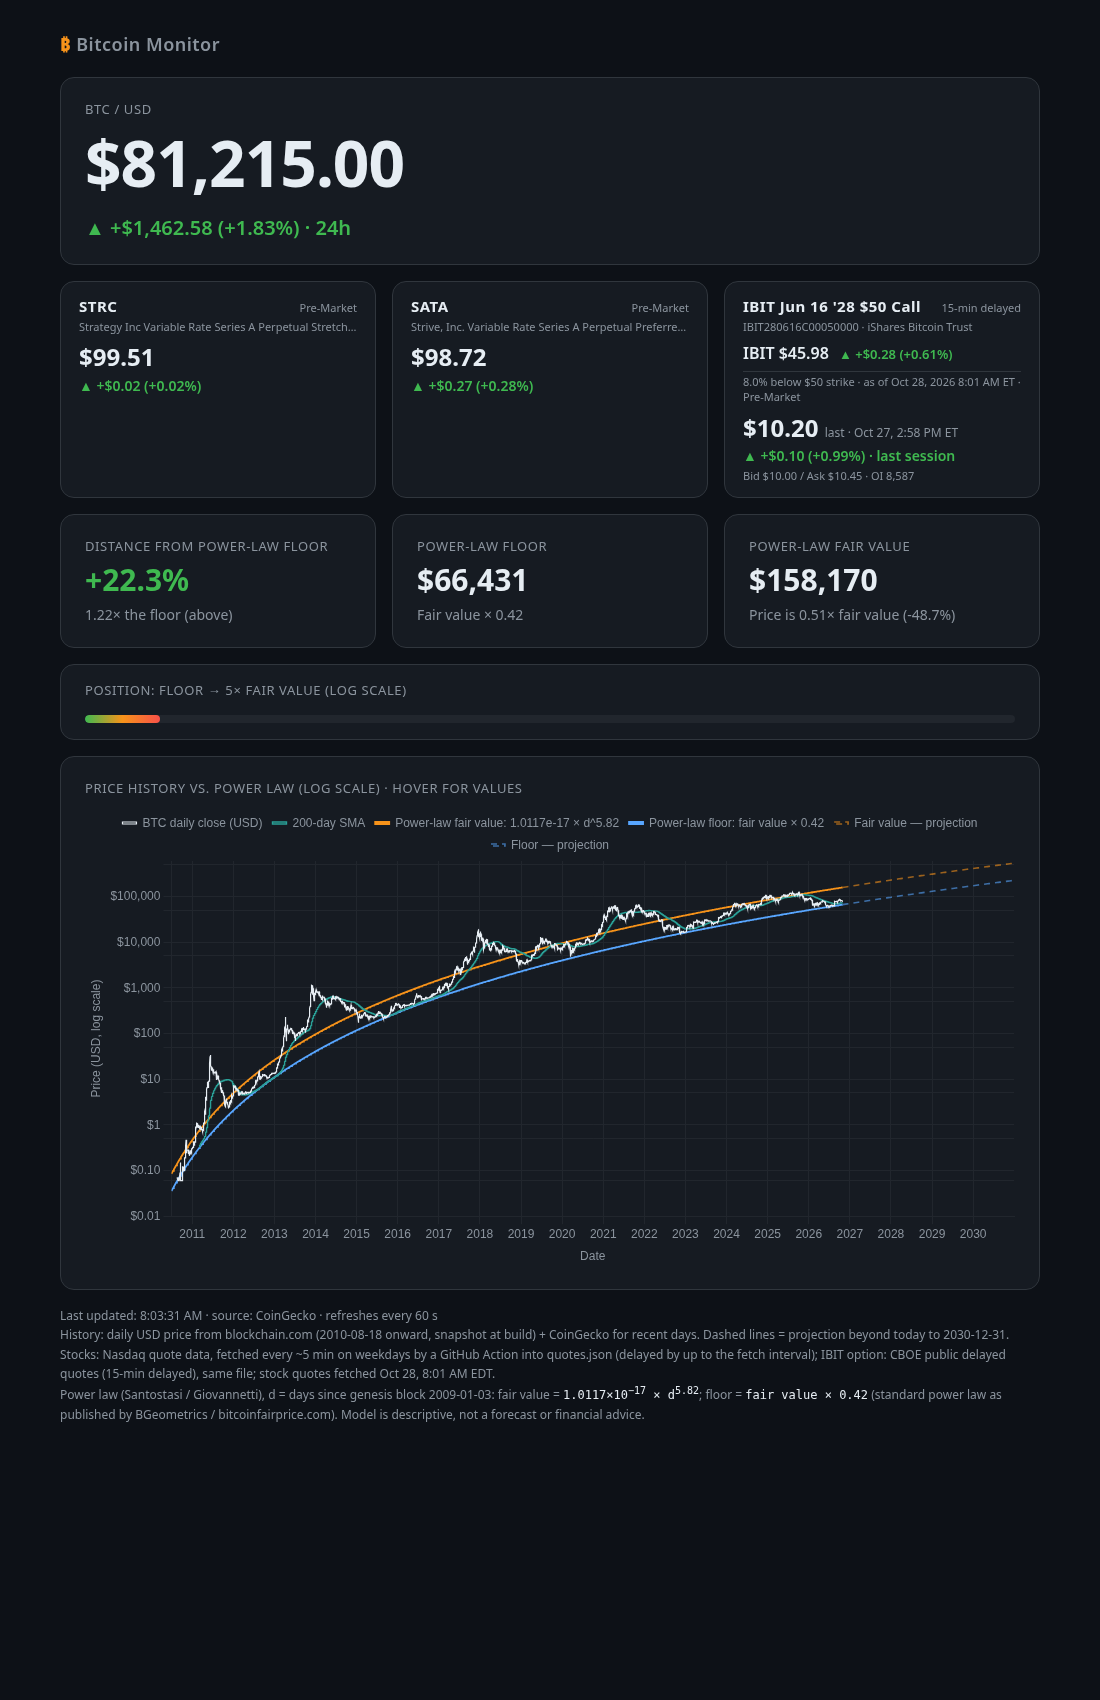
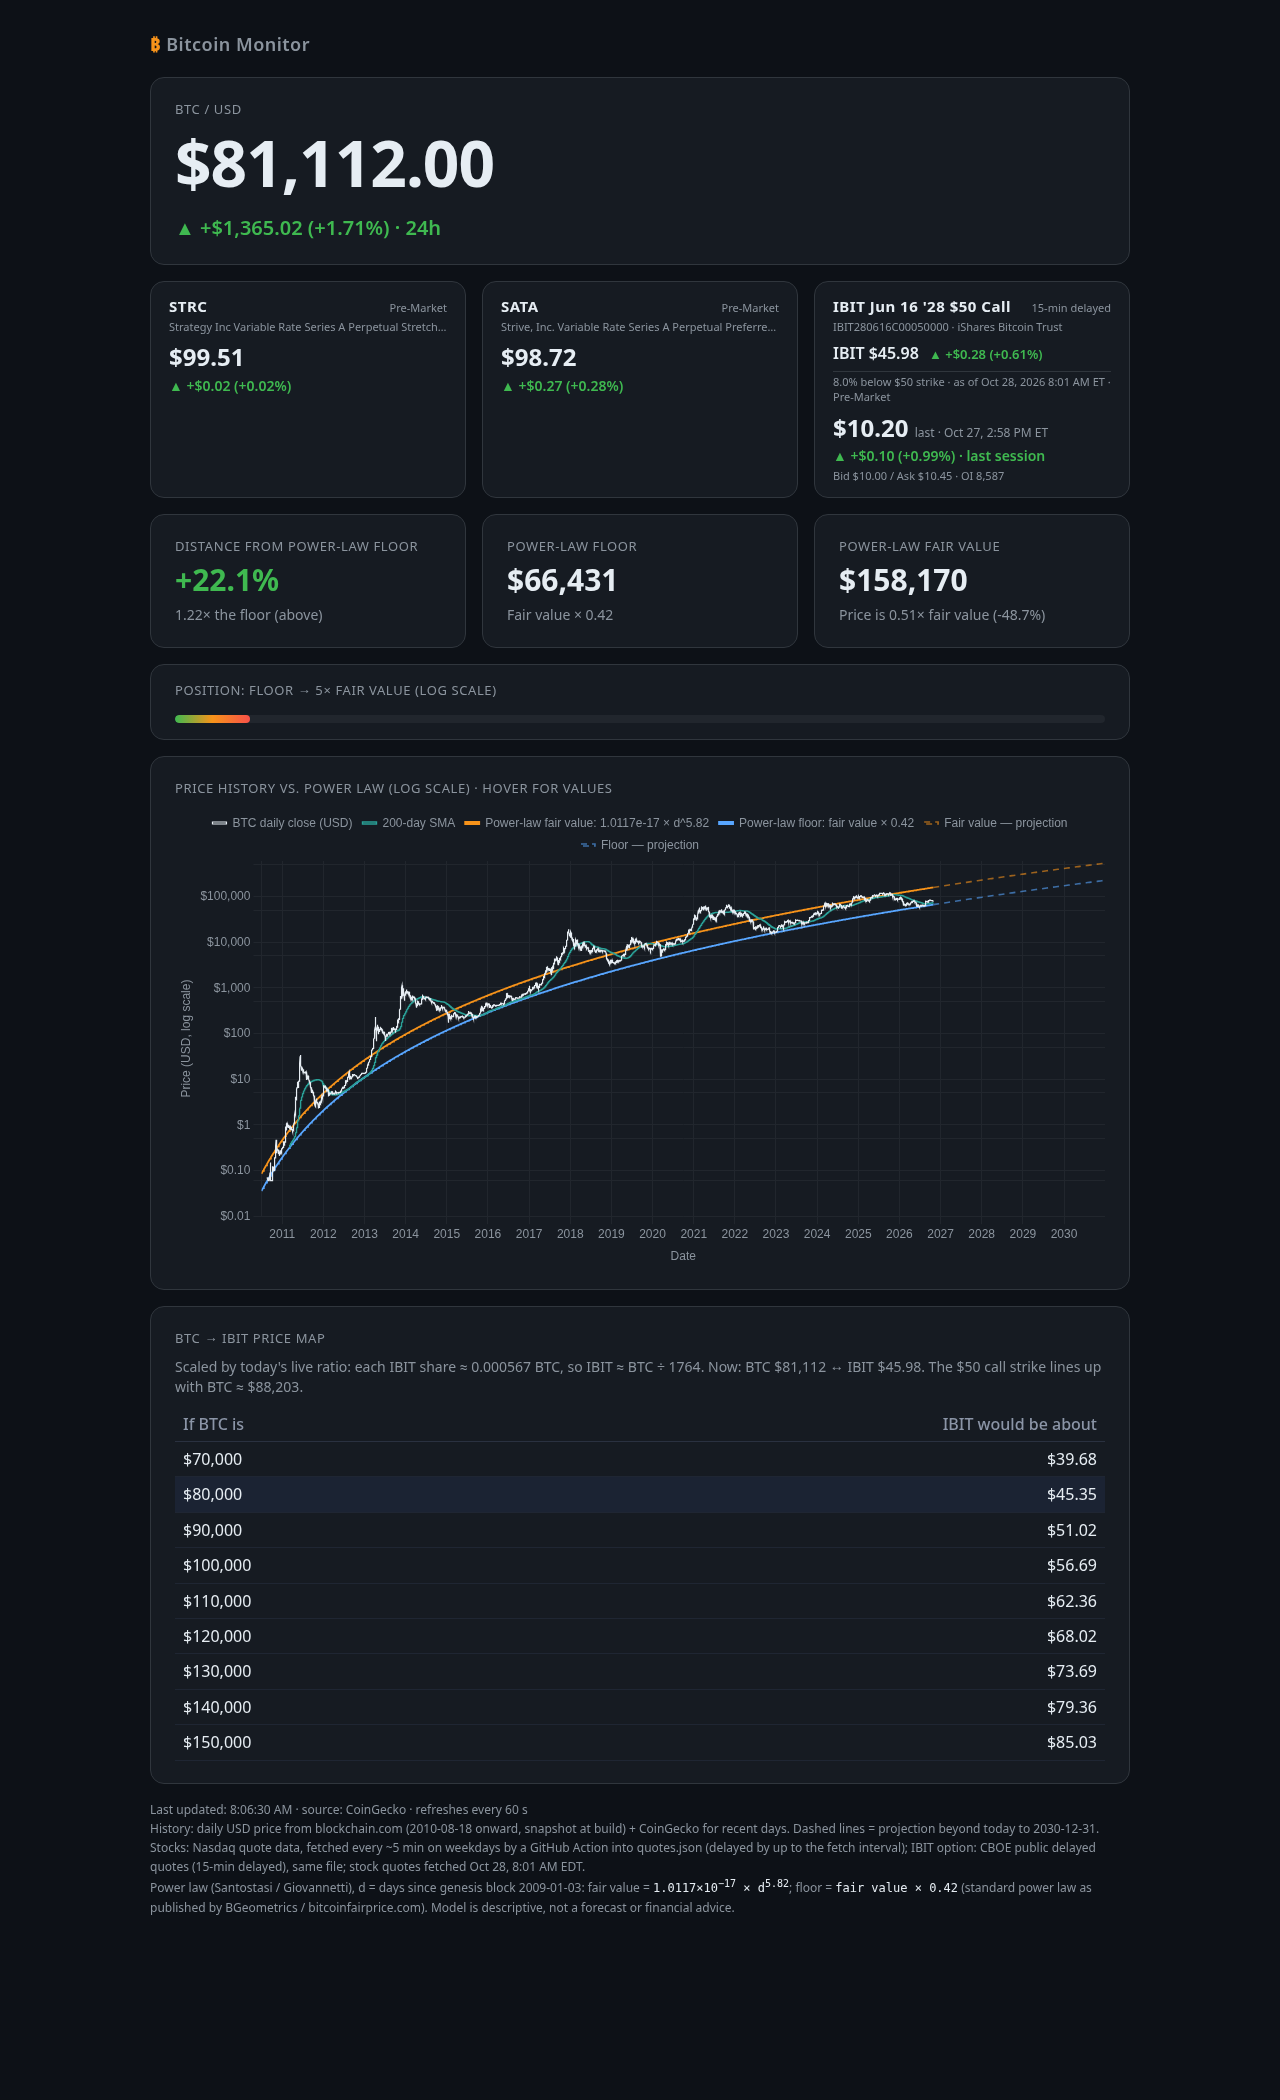
Add a BTC-to-IBIT price map table.
Replace the dashboard and preview so the page scales IBIT from the live BTC/IBIT ratio. The history chart stays BTC-only.

diff --git a/index.html b/index.html
@@ -43,6 +43,9 @@ main{max-width:980px}
 </div>
 <div class="card" style="padding:16px 24px"><div class="lbl">Position: floor → 5× fair value (log scale)</div><div class="bar"><i id="barfill" style="width:0"></i></div></div>
 <div class="card"><div class="lbl" style="margin-bottom:10px">Price history vs. power law (log scale) · hover for values</div><div class="chart"><canvas id="chart"></canvas></div></div>
+<div class="card"><div class="lbl" style="margin-bottom:10px">BTC → IBIT price map</div>
+<div class="sub" id="mapnote" style="margin-bottom:10px">Waiting for live BTC and IBIT prices…</div>
+<table id="maptbl" style="width:100%;border-collapse:collapse;font-variant-numeric:tabular-nums"><thead><tr><th style="text-align:left;padding:6px 8px;border-bottom:1px solid #2a3140;color:#8b95a7;font-weight:500">If BTC is</th><th style="text-align:right;padding:6px 8px;border-bottom:1px solid #2a3140;color:#8b95a7;font-weight:500">IBIT would be about</th></tr></thead><tbody id="mapbody"></tbody></table></div>
 <footer>
   <div>Last updated: <span id="upd">—</span> · source: <span id="src">—</span> · refreshes every 60 s</div>
   <div>History: daily USD price from blockchain.com (2010‑08‑18 onward, snapshot at build) + CoinGecko for recent days. Dashed lines = projection beyond today to 2030‑12‑31.</div>
@@ -58,6 +61,11 @@ const GEN=Date.UTC(2009,0,3), DAY=864e5;
 const usd=(v,d=0)=>v.toLocaleString('en-US',{style:'currency',currency:'USD',minimumFractionDigits:d,maximumFractionDigits:d});
 const $=id=>document.getElementById(id);
 async function j(u){const r=await fetch(u,{cache:'no-store'});if(!r.ok)throw new Error(r.status);return r.json()}
+const LIVE={btc:null,ibit:null};
+function renderMap(){const b=LIVE.btc,i=LIVE.ibit;if(!(b>0&&i>0))return;const r=i/b;
+ $('mapnote').textContent=`Scaled by today's live ratio: each IBIT share ≈ ${(r).toFixed(6)} BTC, so IBIT ≈ BTC ÷ ${(1/r).toFixed(0)}. Now: BTC ${usd(b,0)} ↔ IBIT ${usd(i,2)}. The $50 call strike lines up with BTC ≈ ${usd(50/r,0)}.`;
+ let h='';for(let v=70000;v<=150000;v+=10000){const near=Math.abs(v-b)<5000;h+=`<tr${near?' style="background:#1b2333"':''}><td style="padding:6px 8px;border-bottom:1px solid #1f2633">${usd(v,0)}</td><td style="padding:6px 8px;border-bottom:1px solid #1f2633;text-align:right">${usd(v*r,2)}</td></tr>`}
+ $('mapbody').innerHTML=h}
 const sources=[
  ['CoinGecko',async()=>{const d=await j('https://api.coingecko.com/api/v3/simple/price?ids=bitcoin&vs_currencies=usd&include_24hr_change=true');const p=d.bitcoin.usd,c=d.bitcoin.usd_24h_change;return{p,pct:c,abs:p-p/(1+c/100)}}],
  ['Coinbase',async()=>{const d=await j('https://api.exchange.coinbase.com/products/BTC-USD/stats');const p=+d.last,o=+d.open;return{p,abs:p-o,pct:(p-o)/o*100}}],
@@ -72,7 +80,7 @@ async function update(){
 function render(p,abs,pct,name){
  const d=(Date.now()-GEN)/DAY, ld=Math.log10(d);
  const fair=1.0117e-17*10**(5.82*ld), floor=fair*0.42;
- $('price').textContent=usd(p,2);
+ $('price').textContent=usd(p,2);LIVE.btc=p;renderMap();
  const up=abs>=0;$('chg').className='chg '+(up?'up':'dn');
  $('chg').textContent=`${up?'▲ +':'▼ −'}${usd(Math.abs(abs),2)} (${up?'+':'−'}${Math.abs(pct).toFixed(2)}%) · 24h`;
  const m=p/floor;$('pct').textContent=`${m>=1?'+':''}${((m-1)*100).toFixed(1)}%`;$('pct').className='big '+(m>=1?'up':'dn');
@@ -148,7 +156,7 @@ async function updateQuotes(){
  {const el=$('q-OPT'),f=k=>el.querySelector(`[data-f="${k}"]`),u=q&&q.quotes&&q.quotes.IBIT,o=q&&q.quotes&&q.quotes['IBIT_C50_2028-06'];
   const up0=u&&u.price>0?u:(o&&o.underlyingPrice>0?{price:o.underlyingPrice,status:'15-min delayed (CBOE)'}:null);
   if(!up0){f('ul').textContent='IBIT quote unavailable';f('uls').textContent=''}
-  else{const K=50,d=(up0.price-K)/K*100;
+  else{const K=50,d=(up0.price-K)/K*100;LIVE.ibit=up0.price;renderMap();
    let h=`IBIT ${usd(up0.price,2)}`;
    if(up0.change!=null&&up0.changePct!=null){const up=up0.change>=0;h+=` <small class="${up?'up':'dn'}">${up?'▲ +':'▼ −'}${usd(Math.abs(up0.change),2)} (${up?'+':'−'}${Math.abs(up0.changePct).toFixed(2)}%)</small>`}
    f('ul').innerHTML=h;
